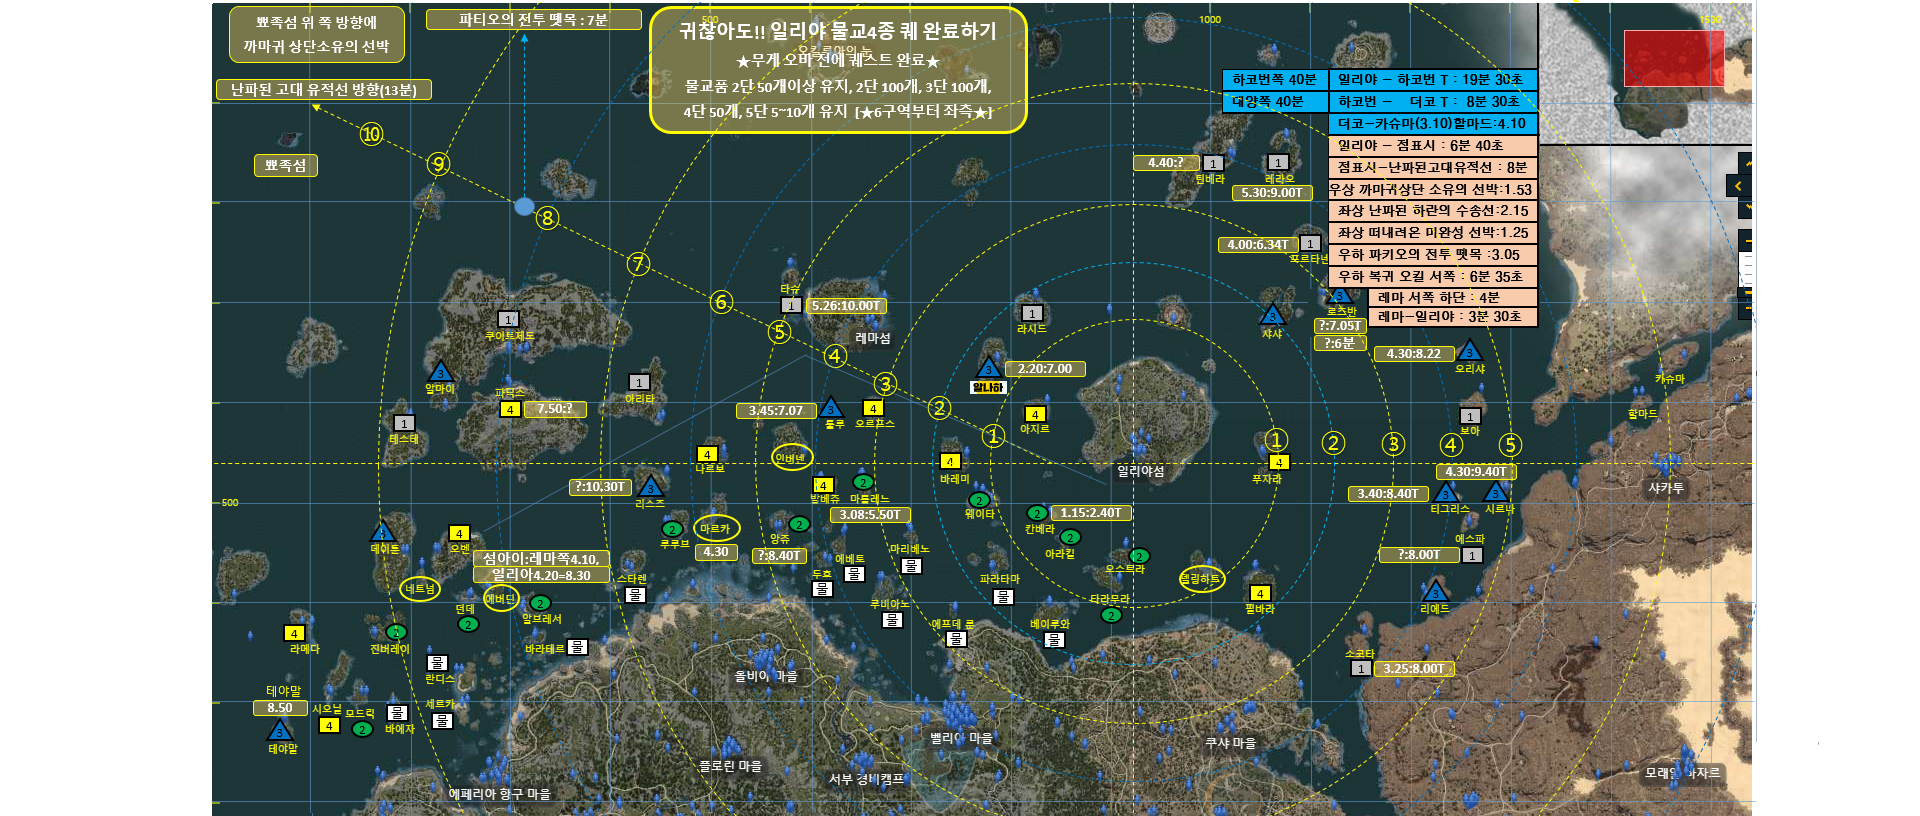
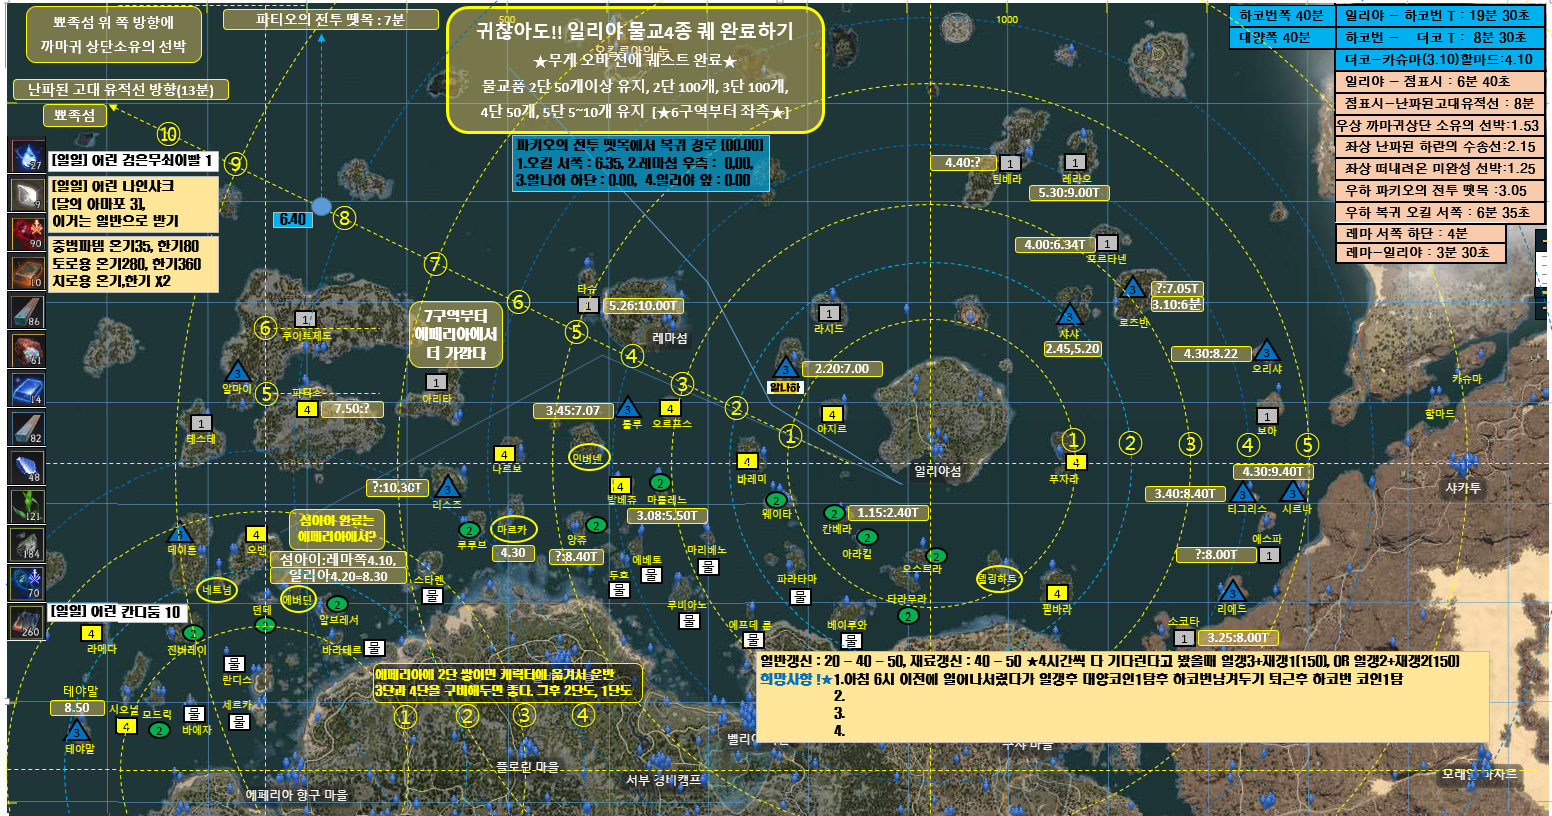
SDXCCV

diff --git a/black.html b/black.html
@@ -67,7 +67,6 @@
   .노랑 {background-color: chartreuse;}
   #구축파템강화확률 th, #구축파템강화확률 td {text-align: center;}
   #구축파템강화확률 tr {height:10px;}
-  .해역사진마진 {margin-left:-211px;}
   /* 세번째 div의 첫번째 button의 innerhtml */
   /* #파템_함포 > div:nth-last-of-type(3) > buttom:first-of-type {} */
   #파템재료_재료아이콘 > div:nth-of-type(3) {background-position: -0px -435px;background-image:url('portal/images/black_문서/S2_재료아이콘추출용.png');}/*"심해의 눈물"*/
@@ -582,7 +581,7 @@
 
     <div>
       <div id="해역_물품단계" class="d-block">
-        <textarea id="좌측상단메모" style="position: fixed; width:524px;height:580px;top:212px;left:3px">
+        <textarea id="좌측상단메모" style="position: fixed; width:307px;height:620px;top:212px;left:3px">
 
 
 
@@ -606,7 +605,7 @@
 
         </textarea>
         <div style="height:159px;"></div>
-        <img id="해역사진마진" style="margin-bottom:2px;" src="portal/images/black_문서/S1_해역사진.png" alt="이미지없음">
+        <img style="margin-bottom:2px;margin-left:-8px;" src="portal/images/black_문서/S1_해역사진.png" alt="이미지없음">
         <br>
         <textarea style="width:400px;height:700px;margin-left:215px;display:inline-block;vertical-align: top;">[재료갱신시]
           콕스 전투, 빛나는 코발트 주괴

diff --git a/portal/assets/js/black.js b/portal/assets/js/black.js
@@ -472,11 +472,9 @@ function textarea보기숨기기() {
   if (document.querySelector('#textarea기능버튼').innerHTML=='textarea숨기기') {
     document.querySelector('#좌측상단메모').classList.add('d-none');
     document.querySelector('#textarea기능버튼').innerHTML='textarea보기';
-    document.querySelector('#해역사진마진').classList.add('해역사진마진');
   } else {
     document.querySelector('#좌측상단메모').classList.remove('d-none');
     document.querySelector('#textarea기능버튼').innerHTML='textarea숨기기';
-    document.querySelector('#해역사진마진').classList.remove('해역사진마진');
   }
 } 
 function 섬이름검색1() {
